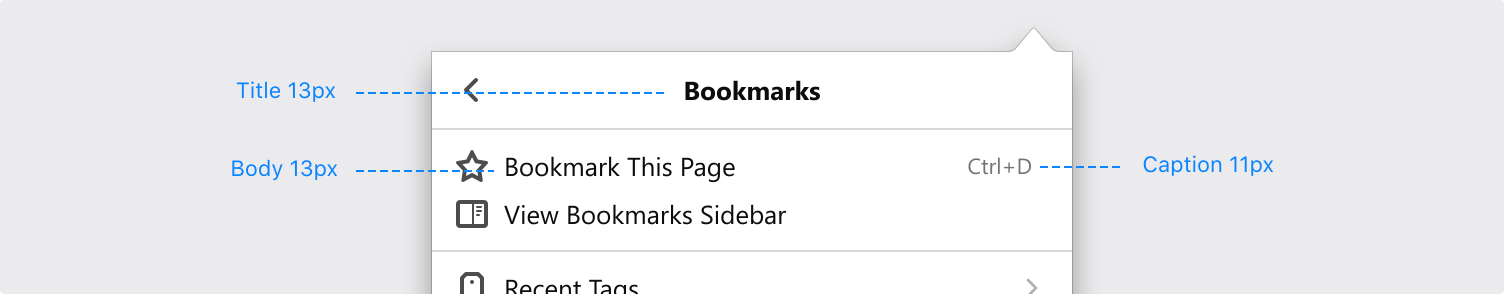
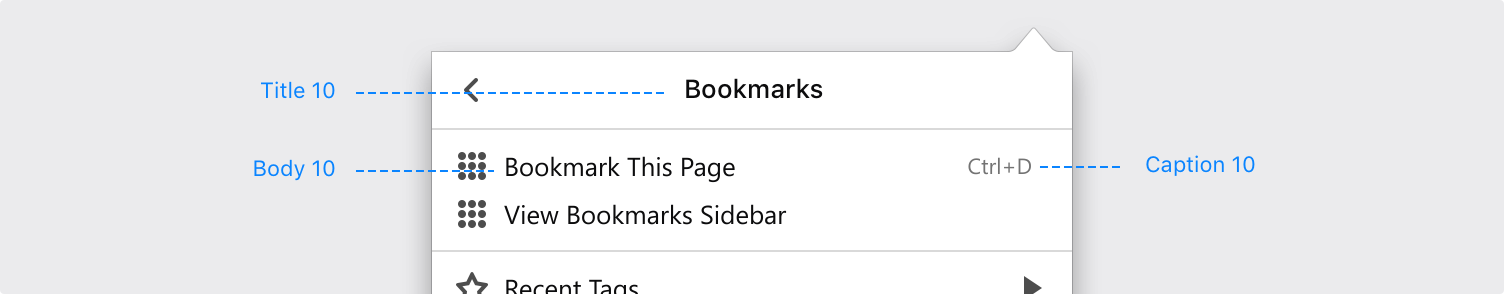
[edit] tittle 10 font weight

diff --git a/contents/includes/typography/typography-table-overview.html b/contents/includes/typography/typography-table-overview.html
@@ -136,7 +136,7 @@
         <tr>
           <td>Title 10</td>
           <td><code>13px</code></td>
-          <td>Semibold <code>600</code></td>
+          <td>Medium <code>500</code></td>
           <td>&#10005;</td>
           <td>&#10003;</td>
           <td>&#10005;</td>
